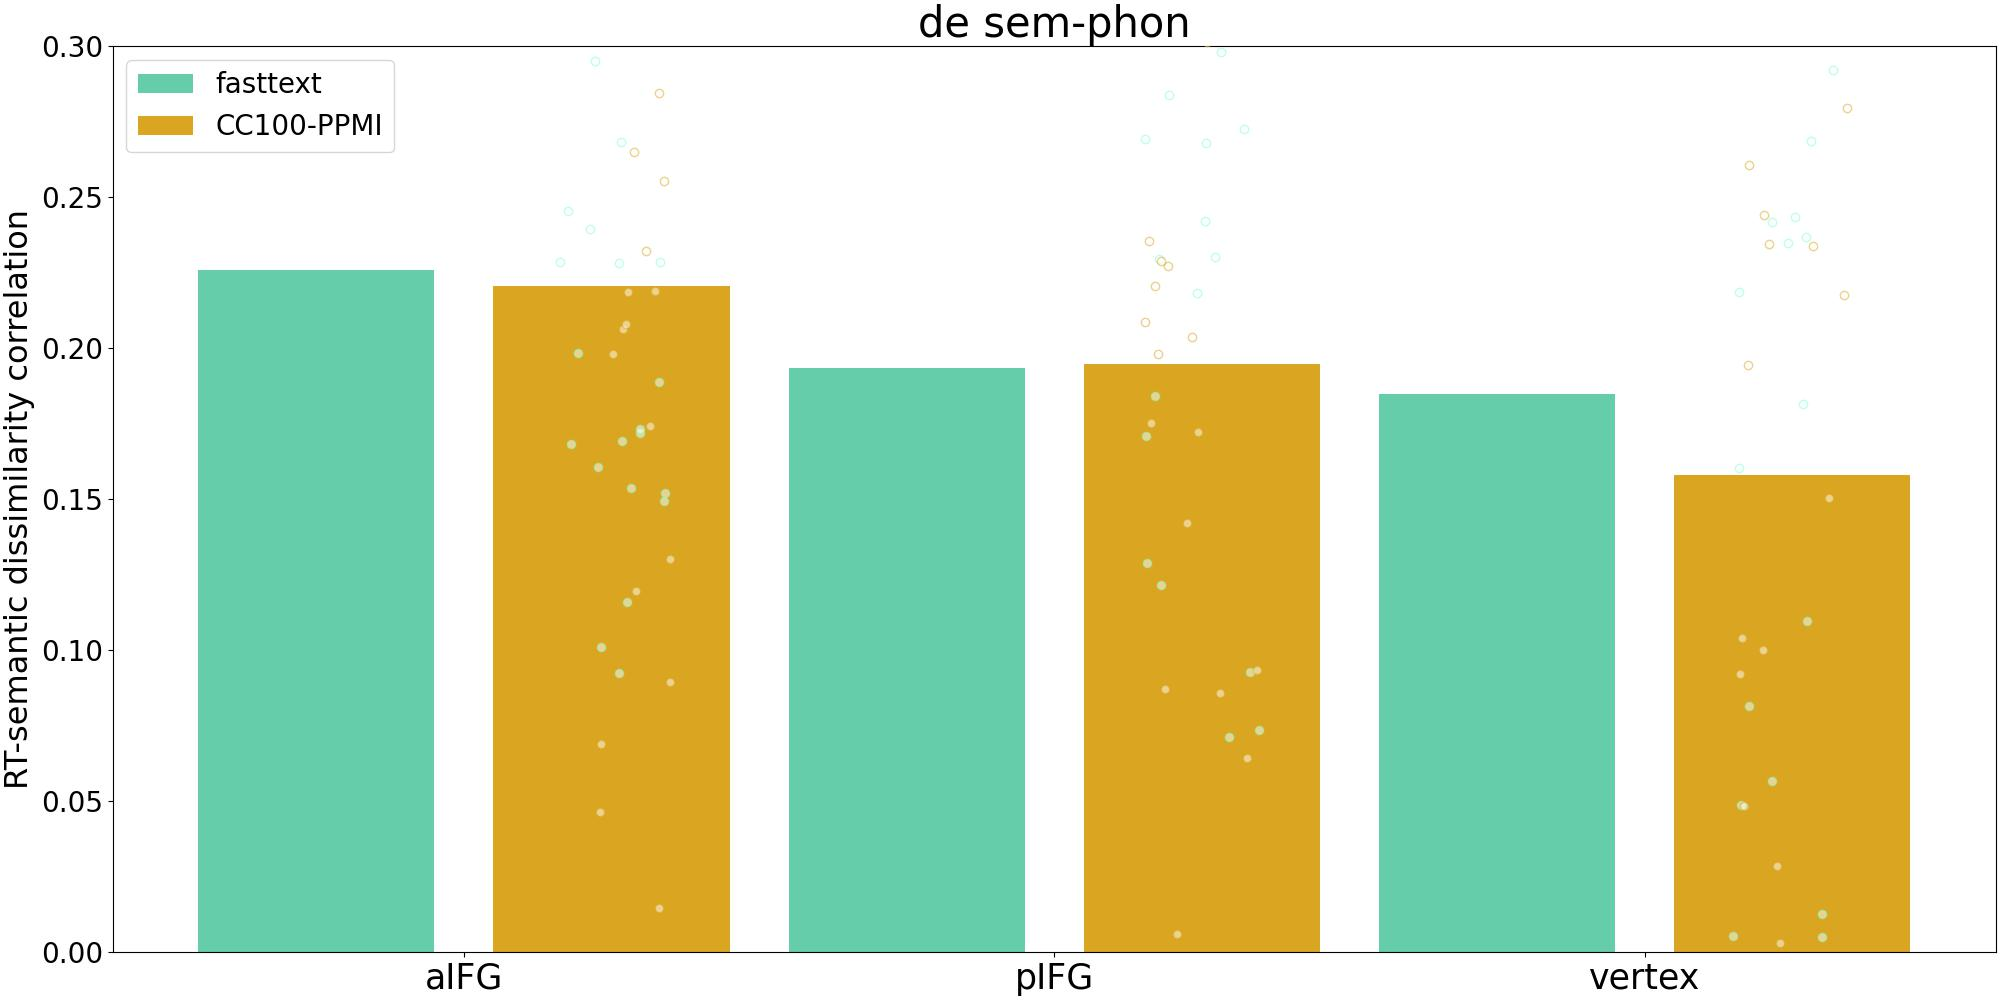
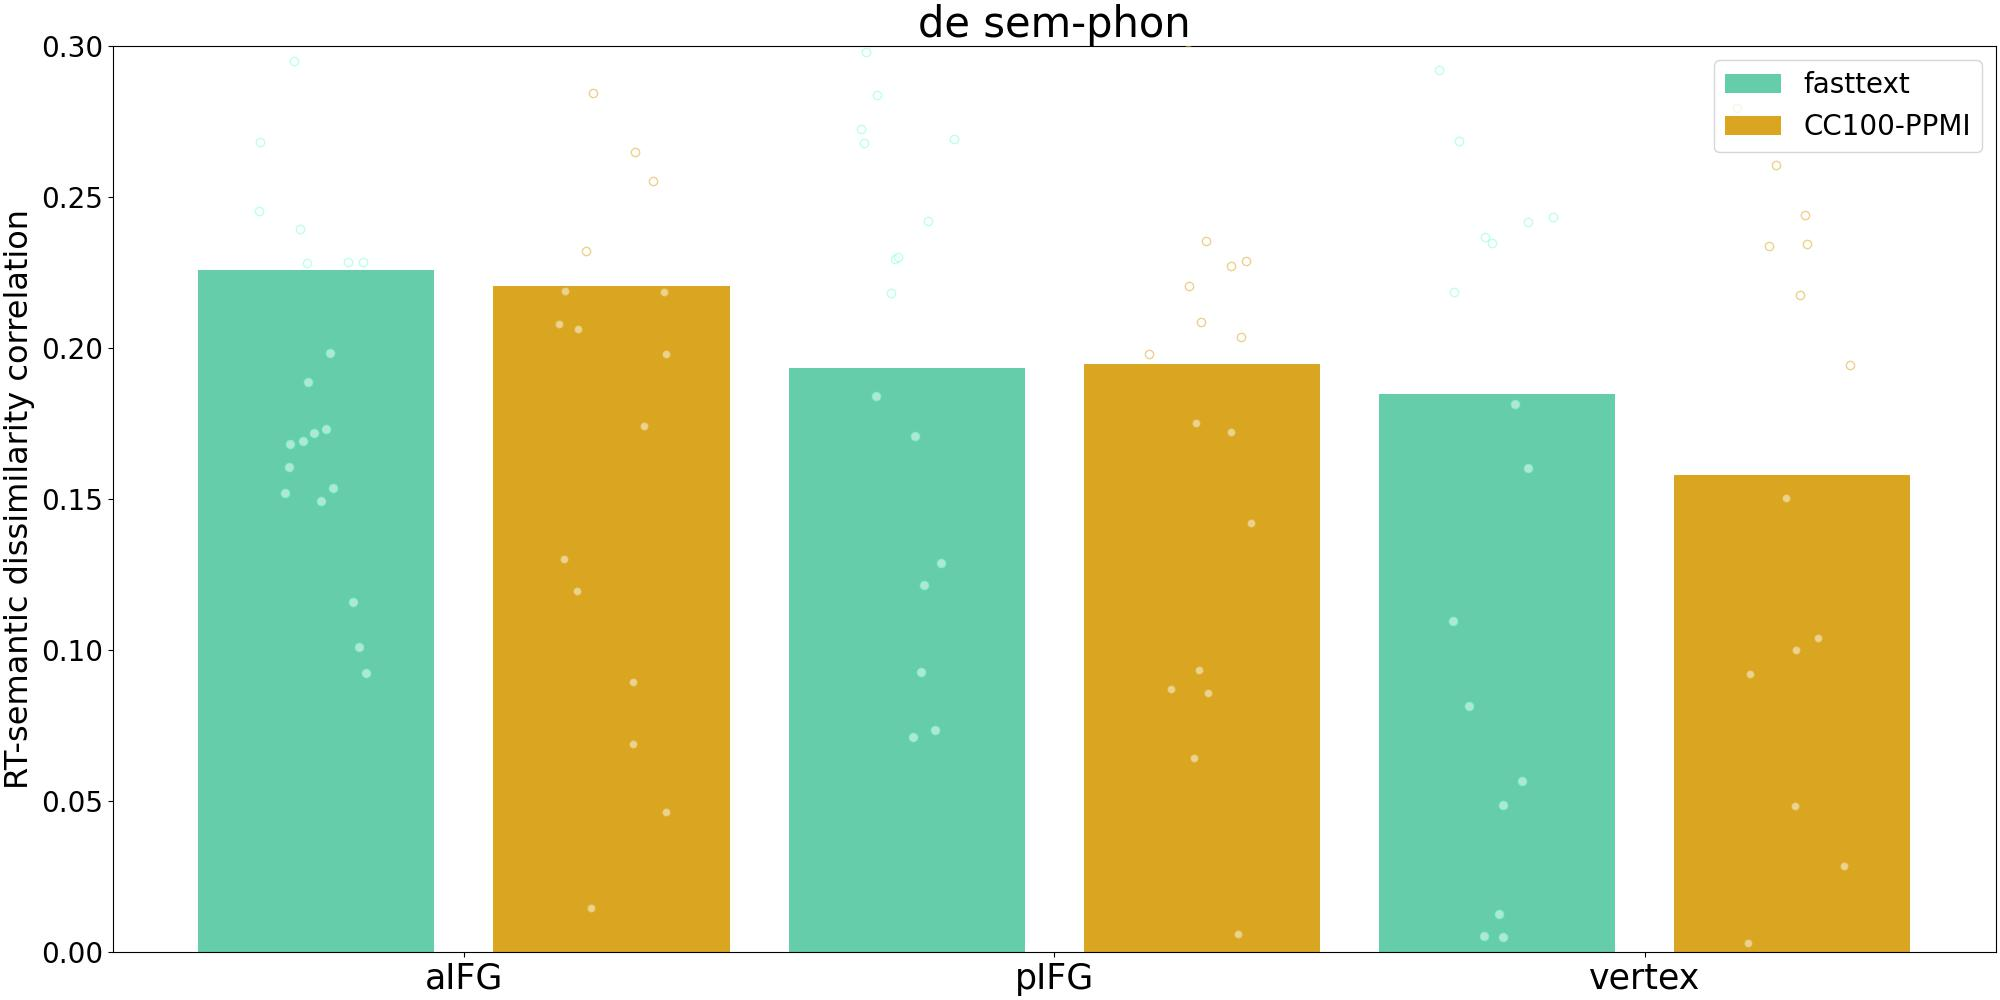
prova

Changed region(s): [[0.837, 0.062, 0.992, 0.155], [0.062, 0.062, 0.186, 0.155]]

diff --git a/word_similarity_relatedness/plot_tms_comparisons.py b/word_similarity_relatedness/plot_tms_comparisons.py
@@ -93,7 +93,7 @@ for l, l_data in results.items():
                width=0.4,
                )
         ax.scatter(
-               [x+0.25+(random.randint(-100, 100)*0.001) for x in range(len(xs)) for y in ys[x]],
+               [x-0.25+(random.randint(-100, 100)*0.001) for x in range(len(xs)) for y in ys[x]],
                ys,
                edgecolor='aquamarine',
                color='white',
